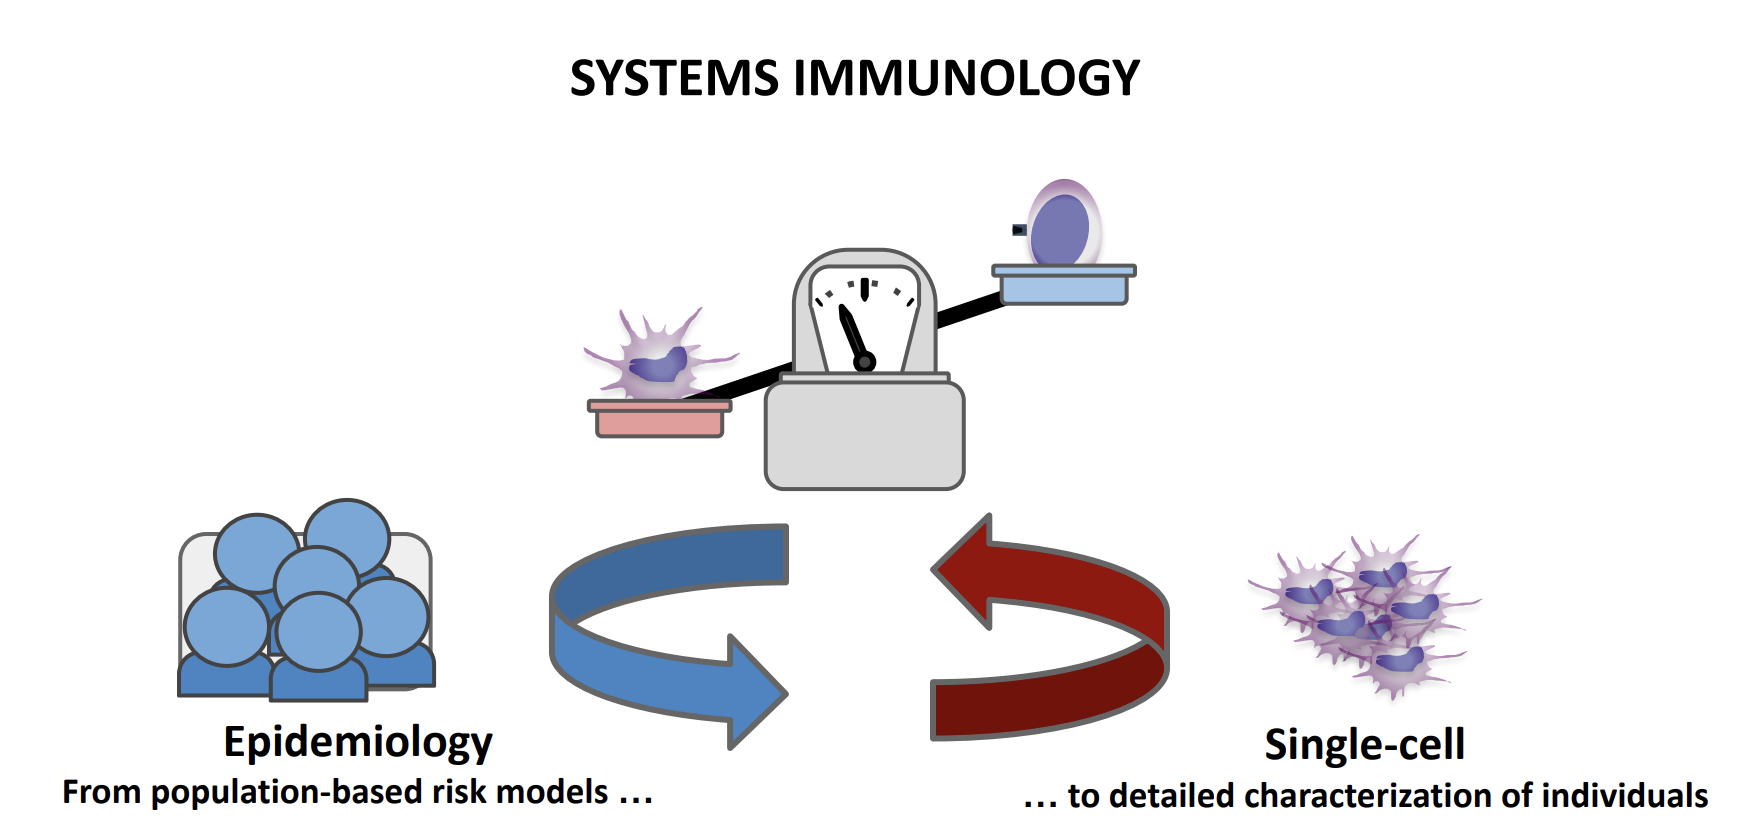
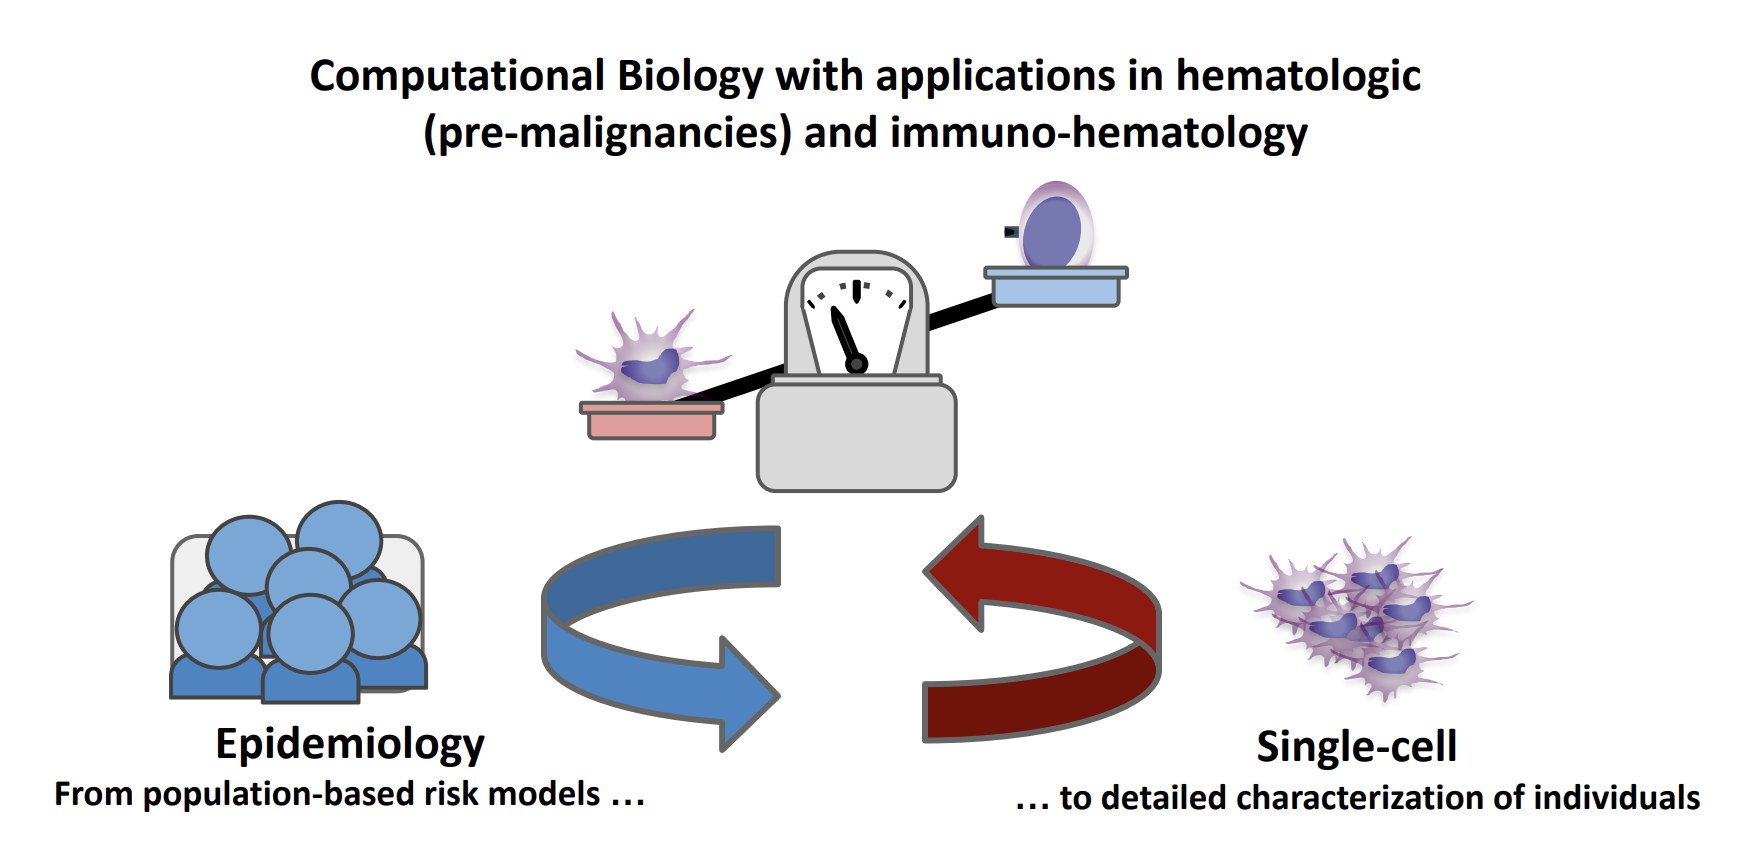
change welcome page

diff --git a/index.md b/index.md
@@ -6,6 +6,3 @@ title: Home
 
 
 {% include feature.html image="images/welcome.png" width="100%" %}
-
-
-Computational Biology with applications in hematologic (pre-malignancies) and immuno-hematology
